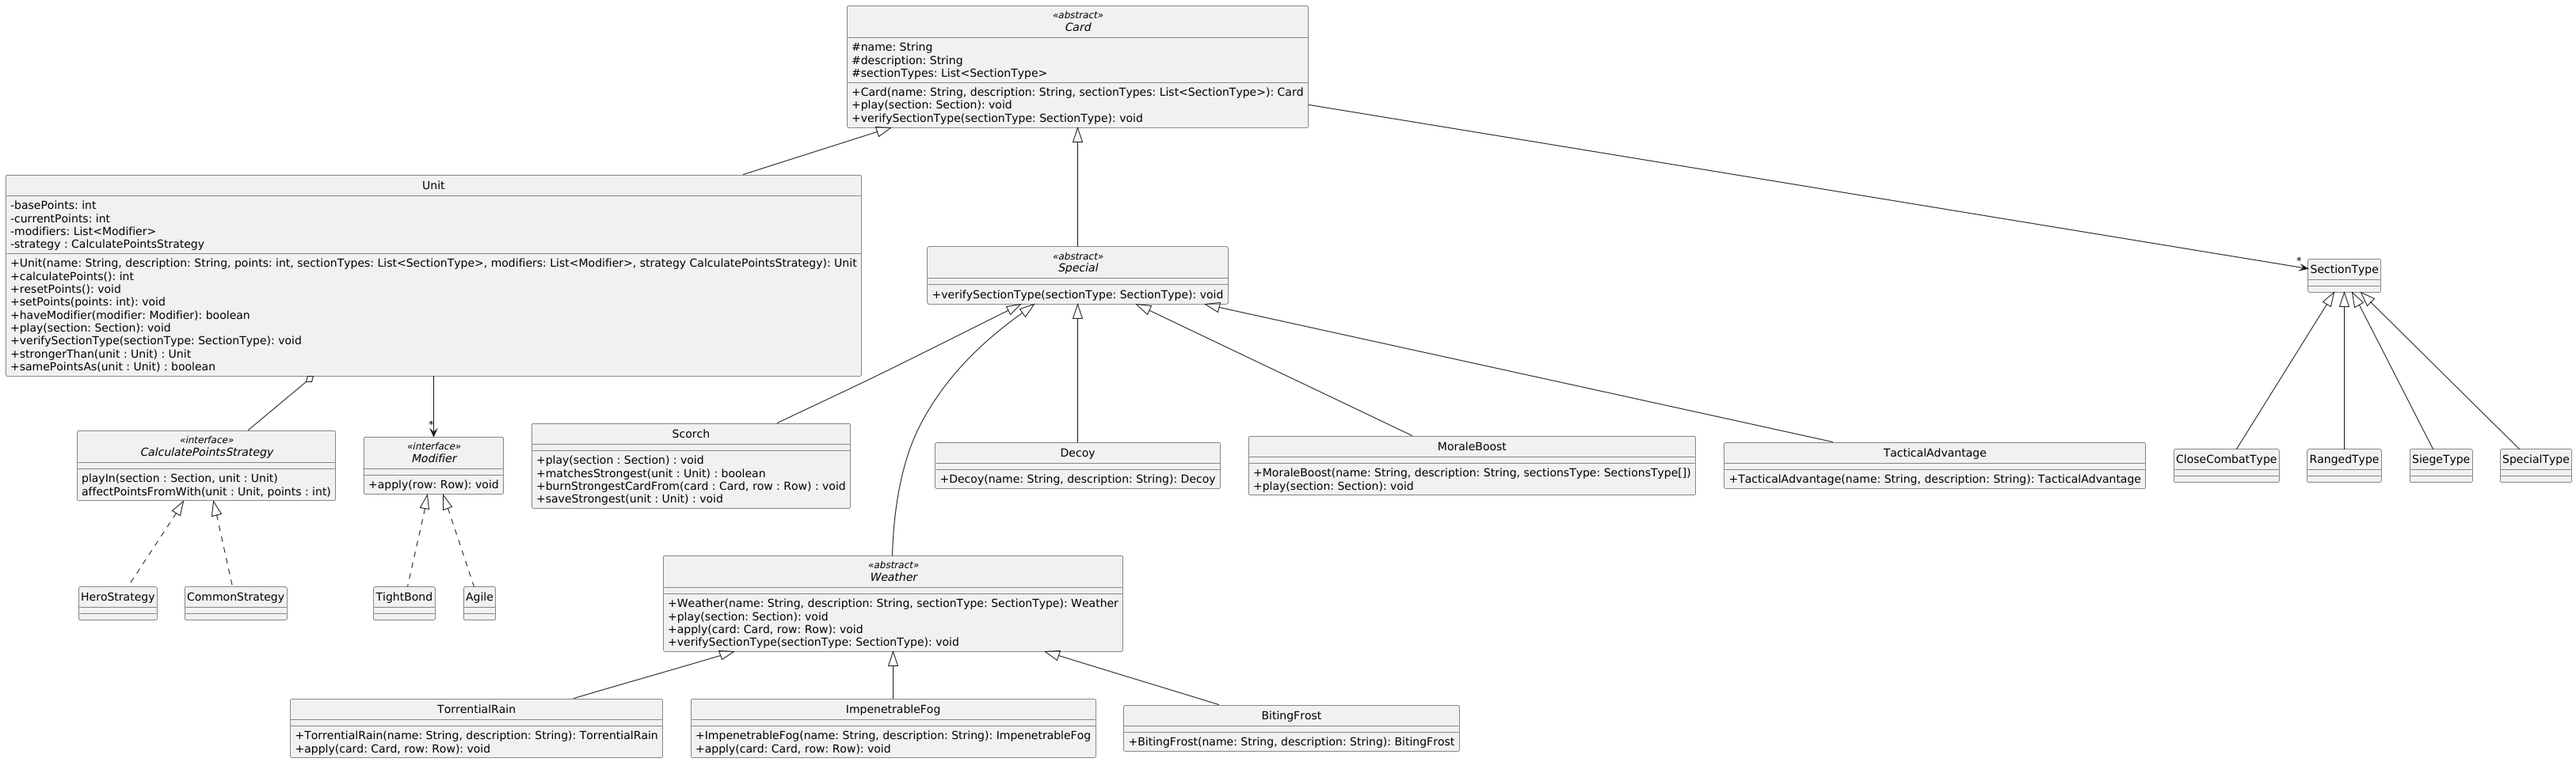
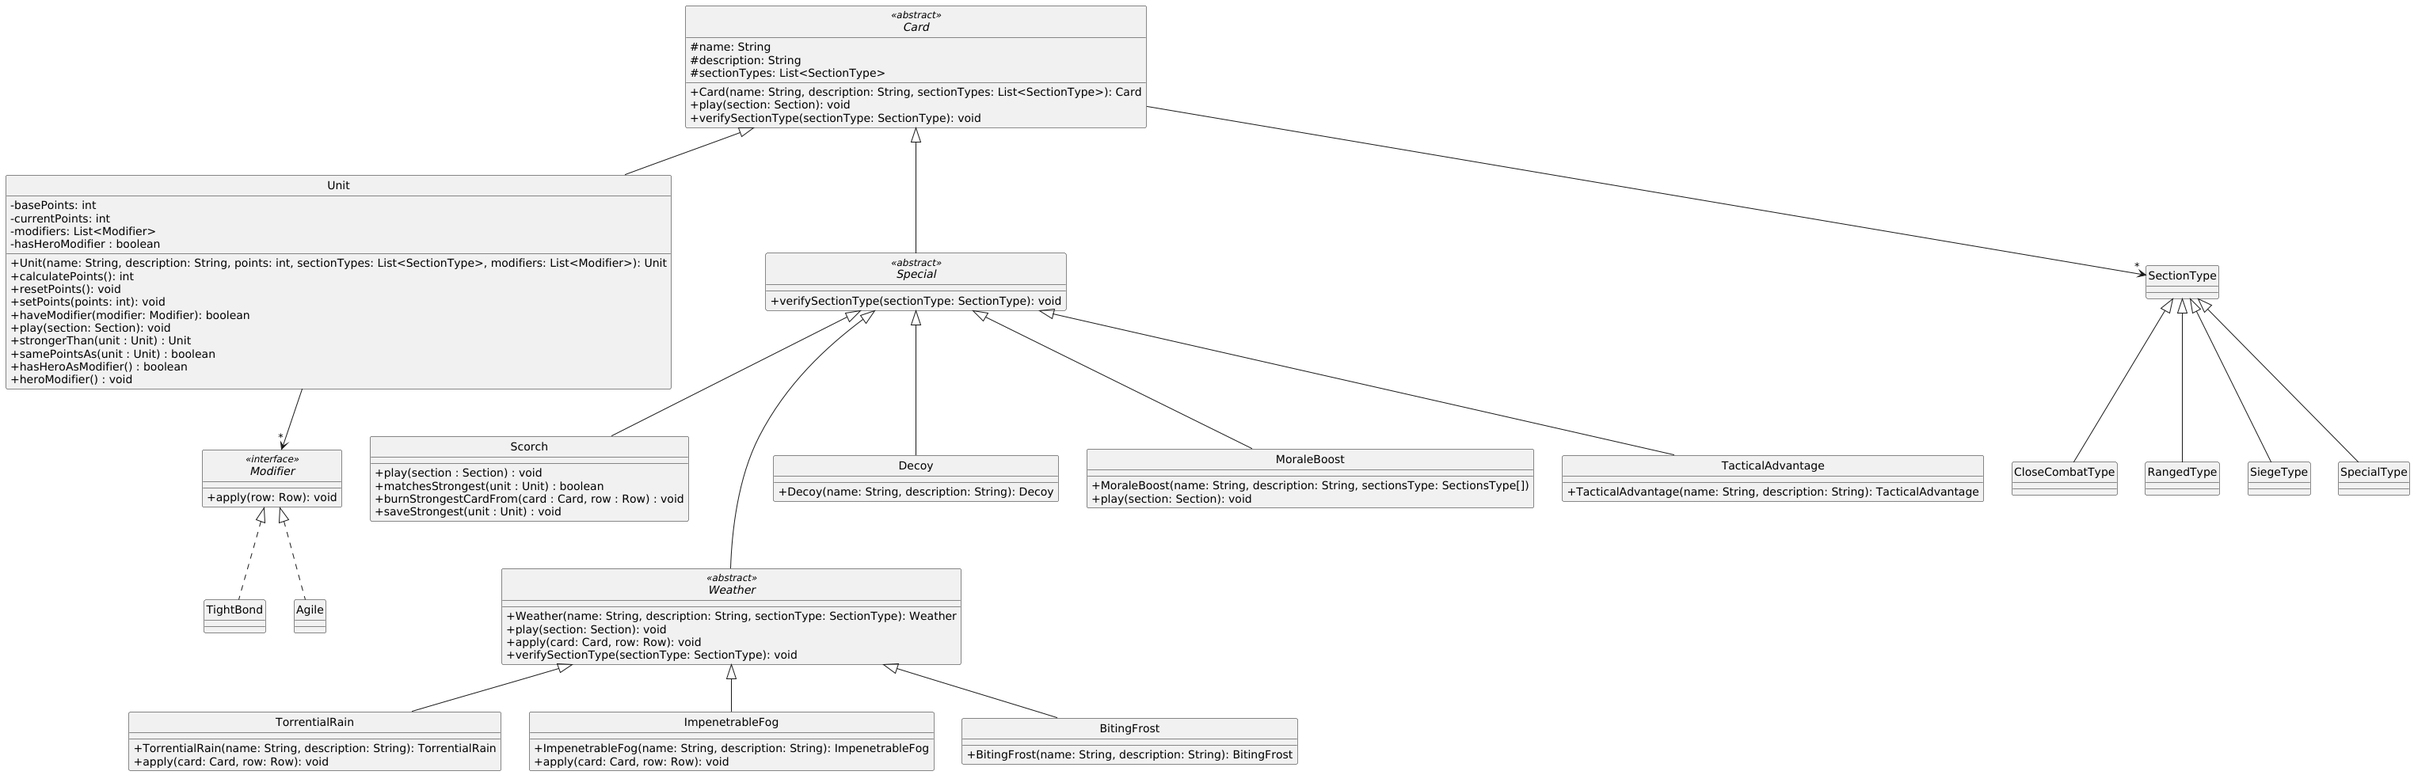
actualizado

diff --git a/src/main/java/edu/fiuba/algo3/modelo/sections/rows/Row.java b/src/main/java/edu/fiuba/algo3/modelo/sections/rows/Row.java
@@ -58,7 +58,7 @@ public abstract class Row implements Section {
     }
 
     public void findStrongestCard(Scorch scorch) {
-        List<Card> cardsWithoutHeroModifier = cards.stream().filter(c -> !((Unit) c).hasHeroModifier()).collect(Collectors.toList());
+        List<Card> cardsWithoutHeroModifier = cards.stream().filter(c -> !((Unit) c).hasHeroAsModifier()).collect(Collectors.toList());
         if (!cardsWithoutHeroModifier.isEmpty()) {
             Unit max = (Unit) cardsWithoutHeroModifier.get(0);
             for (Card card : cardsWithoutHeroModifier) {
@@ -70,7 +70,7 @@ public abstract class Row implements Section {
 
     public List<Card> findAllWithSamePoints(Scorch scorch) {
         List<Card> wanted = new ArrayList<>();
-        List<Card> cardsWithoutHeroModifier = cards.stream().filter(c -> !((Unit) c).hasHeroModifier()).collect(Collectors.toList());
+        List<Card> cardsWithoutHeroModifier = cards.stream().filter(c -> !((Unit) c).hasHeroAsModifier()).collect(Collectors.toList());
         for (Card card : cardsWithoutHeroModifier) {
             if (scorch.matchesStrongest((Unit) card)) {
                 wanted.add(card);

diff --git a/src/main/java/edu/fiuba/algo3/modelo/cards/units/Unit.java b/src/main/java/edu/fiuba/algo3/modelo/cards/units/Unit.java
@@ -56,7 +56,7 @@ public class Unit extends Card {
         }
     }
 
-    public boolean hasHeroModifier() {
+    public boolean hasHeroAsModifier() {
         return hasHeroModifier;
     }
 
